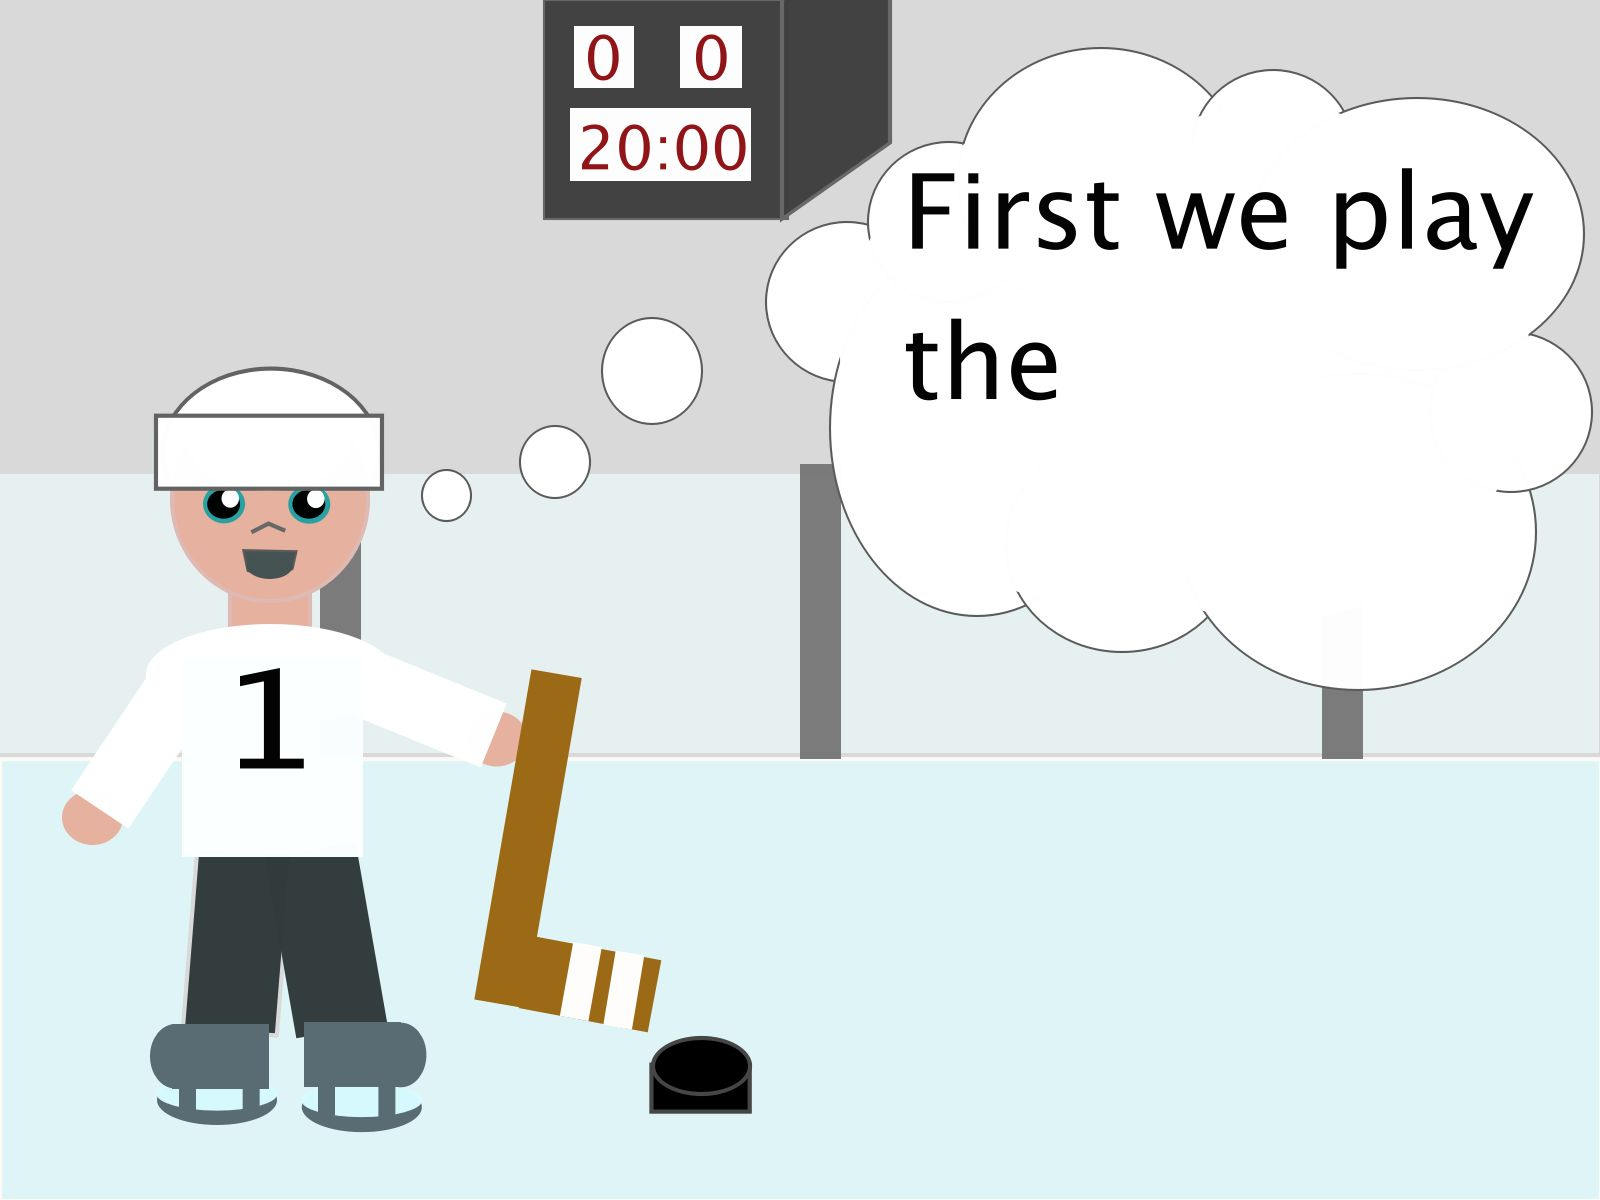
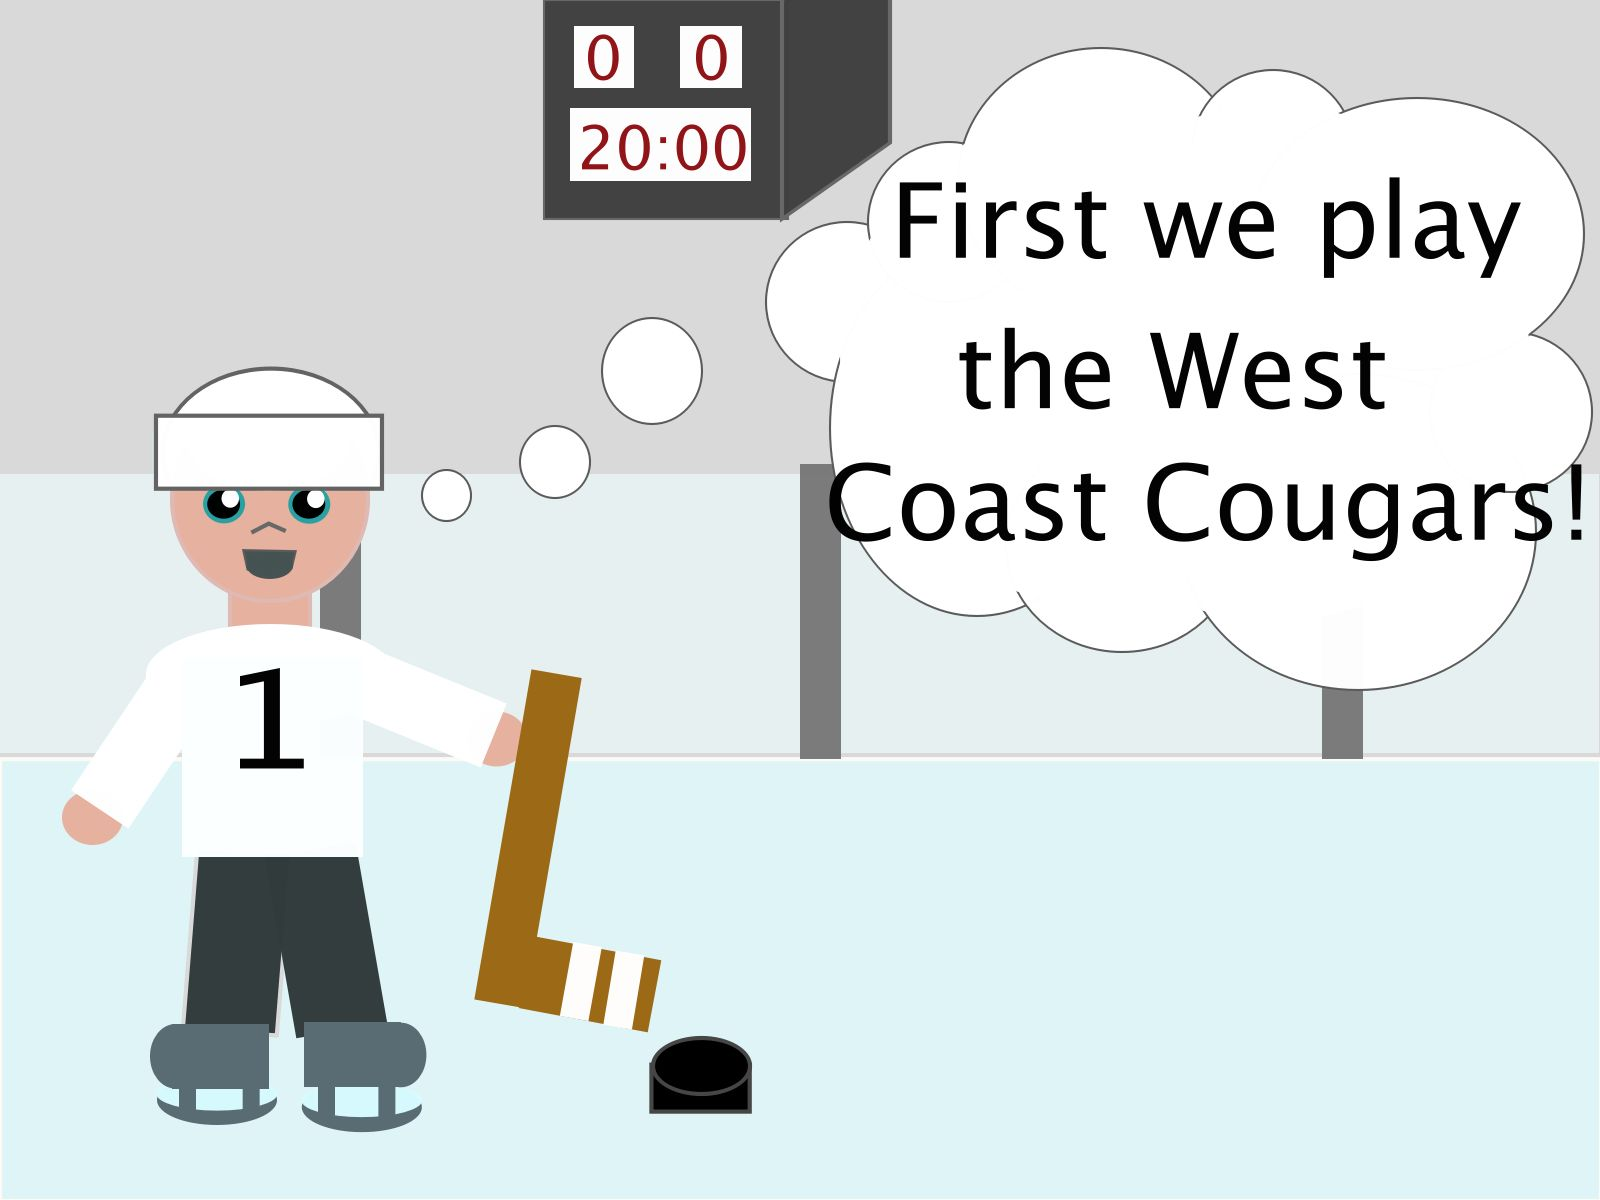
Update cutscene4 image
Modification made to include first round opponent name (as it will never change)

diff --git a/HockeyGameUnity/Assets/Scripts/IntroScript.cs b/HockeyGameUnity/Assets/Scripts/IntroScript.cs
@@ -13,6 +13,7 @@ public class IntroScript : MonoBehaviour {
 
 	void Start () {
 		cutscenes = Resources.LoadAll<Sprite> ("Intro");
+		current_image.sprite = GetComponent<SpriteRenderer> ().sprite;
 	}
 
 	public void NextButton() {
